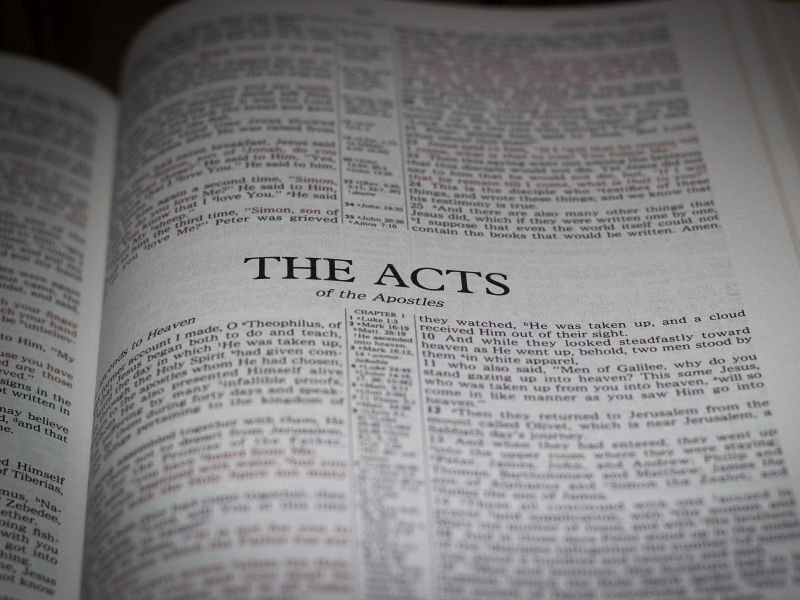
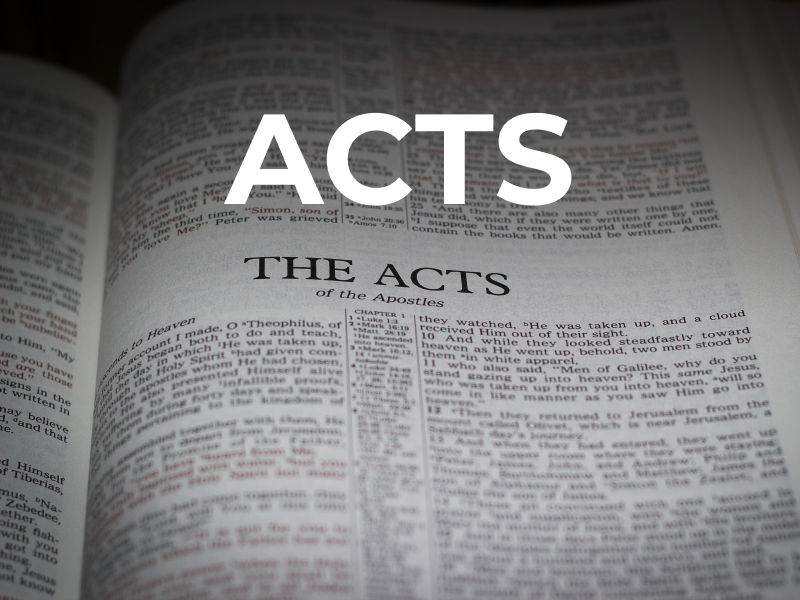
Added series to sermons

Changed region(s): [[0.0312, 0.0, 1.0, 0.39]]

diff --git a/content/sermons/2024-01-14.md b/content/sermons/2024-01-14.md
@@ -1,5 +1,6 @@
 ---
 date: 2024-01-14
+series: The Next Chapter
 title: Christ Centered
 youtube_id: WVPTzEYsUZI
 image: /images/latest-sermon/direction.jpg

diff --git a/content/sermons/2024-01-07.md b/content/sermons/2024-01-07.md
@@ -1,5 +1,6 @@
 ---
 date: 2024-01-07
+series: The Next Chapter
 title: Gospel Renewal
 youtube_id: 2zIwuDmE8pY
 image: /images/latest-sermon/direction.jpg

diff --git a/archetypes/sermons.md b/archetypes/sermons.md
@@ -5,6 +5,7 @@
   {{ $date = $filename -}}
 {{ end -}}
 date: {{ $date }}
+series: 
 title: 
 youtube_id: 
 image: /images/latest-sermon/default.jpg

diff --git a/content/sermons/2023-11-26.md b/content/sermons/2023-11-26.md
@@ -1,5 +1,6 @@
 ---
 date: 2023-11-26
+series: Advent
 title: Advent Week 1
 youtube_id: 2Mm4NF8LJYs
 image: /images/latest-sermon/advent-week-1.jpg

diff --git a/content/sermons/2023-12-03.md b/content/sermons/2023-12-03.md
@@ -1,5 +1,6 @@
 ---
 date: 2023-12-03
+series: Advent
 title: Advent Week 2
 youtube_id: OkhvEHT3mbY
 image: /images/latest-sermon/advent-week-2.jpg

diff --git a/content/sermons/2023-12-10.md b/content/sermons/2023-12-10.md
@@ -1,5 +1,6 @@
 ---
 date: 2023-12-10
+series: Advent
 title: Advent Week 3
 youtube_id: ejgU3nOk79A
 image: /images/latest-sermon/advent-week-3.jpg

diff --git a/content/sermons/2023-12-17.md b/content/sermons/2023-12-17.md
@@ -1,5 +1,6 @@
 ---
 date: 2023-12-17
+series: Advent
 title: Advent Week 4
 youtube_id: lrUN7Cwaq7Q
 image: /images/latest-sermon/advent-week-4.jpg

diff --git a/content/sermons/2023-10-15.md b/content/sermons/2023-10-15.md
@@ -1,5 +1,6 @@
 ---
 date: 2023-10-15
+series: Acts
 title: Acts 15:36-16:10
 youtube_id: U-riI4xXsL0
 image: /images/latest-sermon/acts.jpg

diff --git a/content/sermons/2023-12-24.md b/content/sermons/2023-12-24.md
@@ -1,5 +1,6 @@
 ---
 date: 2023-12-24
+series:
 title: Luke 1:26-38
 youtube_id: 39Goe6noieY
 image: /images/latest-sermon/christmas-eve.jpg

diff --git a/content/sermons/2023-09-10.md b/content/sermons/2023-09-10.md
@@ -1,5 +1,6 @@
 ---
 date: 2023-09-10
+series: Acts
 title: Acts 13:13-52
 youtube_id: M_gUNK0tEto
 image: /images/latest-sermon/acts.jpg

diff --git a/content/sermons/2023-09-24.md b/content/sermons/2023-09-24.md
@@ -1,5 +1,6 @@
 ---
 date: 2023-09-24
+series: Acts
 title: Acts 14:21-28
 youtube_id: Na1ovqVmBrA
 image: /images/latest-sermon/acts.jpg

diff --git a/content/sermons/2023-10-08.md b/content/sermons/2023-10-08.md
@@ -1,5 +1,6 @@
 ---
 date: 2023-10-08
+series: Acts
 title: Acts 15:22-35
 youtube_id: 2Ett8xT3d6E
 image: /images/latest-sermon/acts.jpg
